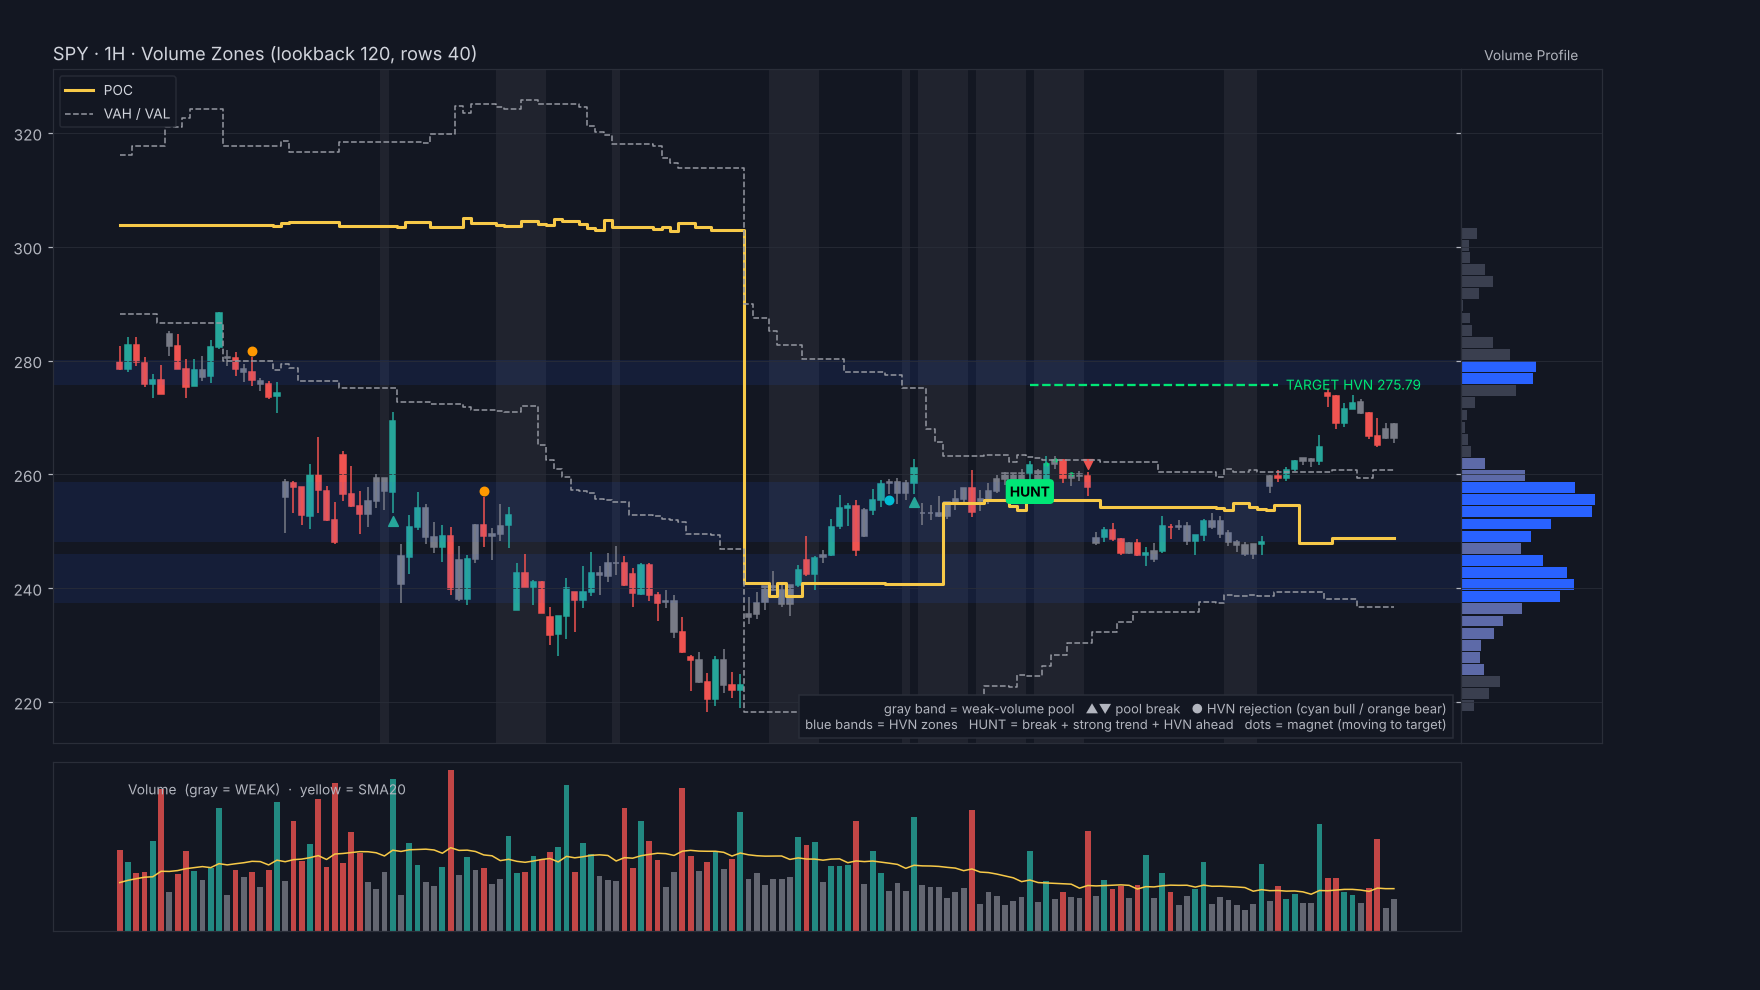
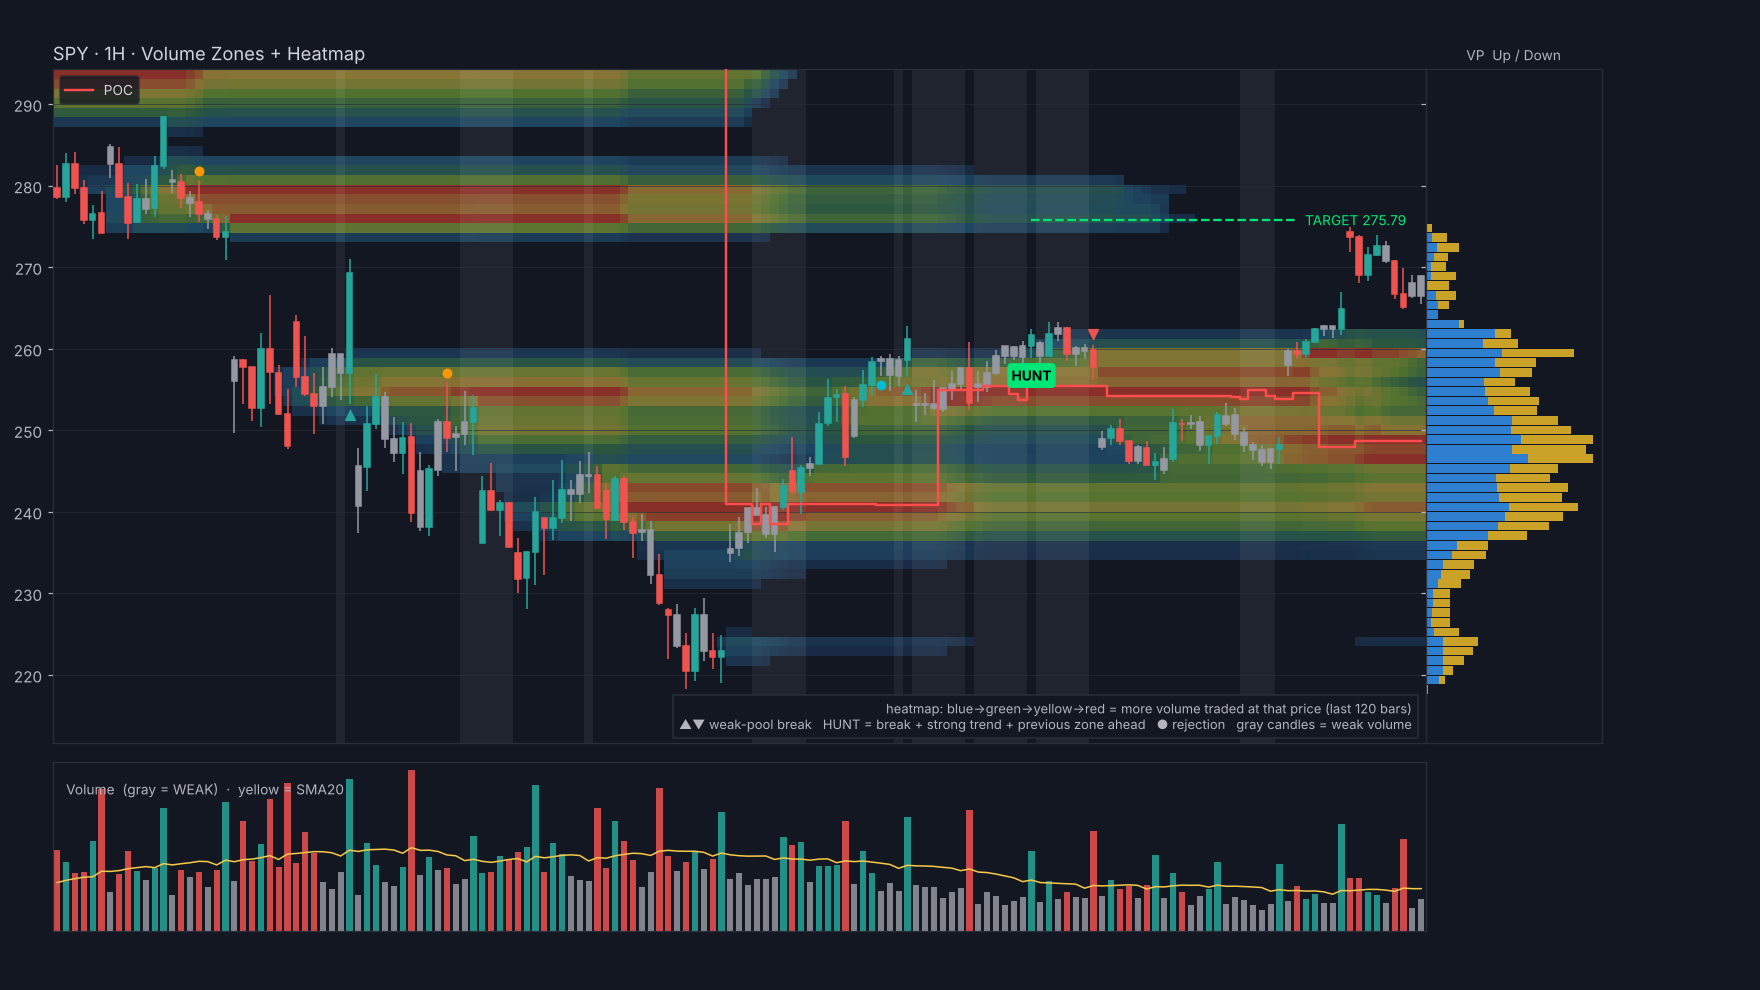
Add volume heatmap bands and Up/Down profile to indicator, Pine script and preview
Claude-Session: https://claude.ai/code/session_01LqVdPjKMY9JTEX1zUaxwh2

diff --git a/reports/make_preview.py b/reports/make_preview.py
@@ -1,0 +1,74 @@
+"""Render a TradingView-style preview of the Volume Zones indicator with the heatmap."""
+import sys, pathlib; sys.path.insert(0, str(pathlib.Path(__file__).resolve().parent.parent))
+import numpy as np, matplotlib; matplotlib.use("Agg")
+import matplotlib.pyplot as plt
+from matplotlib.colors import LinearSegmentedColormap
+from matplotlib.patches import Rectangle
+import vzones
+
+ROOT = pathlib.Path(__file__).resolve().parent.parent
+df = vzones.load_lean_csv(ROOT / "data/spy_hourly_lean.csv.gz").iloc[-30000:]
+P = vzones.VZParams(lookback=120, weak_ratio=0.8, break_ratio=1.5, adx_strong=25)
+r = vzones.compute(df, P)
+t0 = np.flatnonzero(r.hunt.to_numpy() != 0)[-1]
+s, e = t0 - 110, t0 + 45
+ctx = r.iloc[s - P.lookback:e]                      # history needed for the heatmap
+w = r.iloc[s:e].reset_index(drop=True)
+lo, hi = w.low.min() * 0.97, w.high.max() * 1.02
+edges = np.linspace(lo, hi, 71)
+grid, _ = vzones.heatmap(ctx, P.lookback, edges=edges)
+grid = grid[P.lookback:]
+grid = np.where(grid < 0.30, np.nan, grid)          # only show meaningful liquidity
+
+BG, GR, UP, DN = "#131722", "#2a2e39", "#26a69a", "#ef5350"
+cmap = LinearSegmentedColormap.from_list("heat", ["#1e3a5f", "#2a6f97", "#3d8b5a", "#8bbf3c", "#e8c547", "#e8432d"])
+cmap.set_bad(alpha=0)
+fig = plt.figure(figsize=(16, 9), facecolor=BG)
+ax = fig.add_axes([0.03, 0.25, 0.78, 0.68], facecolor=BG)
+axv = fig.add_axes([0.03, 0.06, 0.78, 0.17], facecolor=BG, sharex=ax)
+axp = fig.add_axes([0.81, 0.25, 0.10, 0.68], facecolor=BG, sharey=ax)
+for a in (ax, axv, axp):
+    a.tick_params(colors="#b2b5be"); [sp.set_color(GR) for sp in a.spines.values()]
+ax.grid(color=GR, lw=.4)
+ax.imshow(grid.T, origin="lower", aspect="auto", cmap=cmap, vmin=.3, vmax=1, alpha=.55,
+          extent=(-.5, len(w) - .5, lo, hi), interpolation="nearest", zorder=0)
+for i in range(len(w)):
+    if w.pool_active[i]:
+        ax.axvspan(i - .5, i + .5, color="#ffffff", alpha=.06, lw=0)
+for i, row in w.iterrows():
+    col = "#9598a1" if row.weak_volume else (UP if row.close >= row.open else DN)
+    ax.vlines(i, row.low, row.high, color=col, lw=1, zorder=3)
+    ax.add_patch(Rectangle((i - .32, min(row.open, row.close)), .64, max(abs(row.close - row.open), .02), color=col, zorder=3))
+    axv.bar(i, row.volume, color=col, alpha=.85, width=.7)
+axv.plot(range(len(w)), w.volume / w.vol_ratio, color="#f7c948", lw=1); axv.set_yticks([])
+axv.text(1, w.volume.max() * .85, "Volume  (gray = WEAK)  ·  yellow = SMA20", color="#b2b5be", fontsize=9)
+ax.step(range(len(w)), w.poc, where="mid", color="#ff4d4d", lw=1.6, label="POC", zorder=4)
+# up/down split profile at the last bar (like VPVR Up/Down)
+k = len(w) - 1
+pu, pd_ = vzones.split_profile(r.iloc[s + k - P.lookback:s + k], edges)
+mx = (pu + pd_).max(); c = (edges[:-1] + edges[1:]) / 2; hgt = edges[1] - edges[0]
+axp.barh(c, pu / mx, height=hgt * .9, color="#2f7fd1")
+axp.barh(c, pd_ / mx, left=pu / mx, height=hgt * .9, color="#c9a227")
+axp.set_xticks([]); axp.tick_params(labelleft=False)
+axp.set_title("VP  Up / Down", color="#b2b5be", fontsize=9)
+yr = w.high.max() - w.low.min()
+for i, row in w.iterrows():
+    if row.hunt:
+        d = row.hunt; clr = "#00e676" if d > 0 else "#ff5252"
+        ax.annotate("HUNT", (i, row.low - yr * .04 if d > 0 else row.high + yr * .04), color="black", ha="center",
+                    fontsize=9, weight="bold", bbox=dict(boxstyle="round", fc=clr, ec="none"), zorder=5)
+        ax.hlines(row.target, i, min(i + 30, len(w) - 1), color=clr, ls="--", lw=1.5, zorder=4)
+        ax.text(min(i + 30, len(w) - 1), row.target, f"  TARGET {row.target:.2f}", color=clr, va="center", fontsize=9)
+    elif row.pool_break:
+        ax.scatter(i, row.low - yr * .02 if row.pool_break > 0 else row.high + yr * .02,
+                   marker="^" if row.pool_break > 0 else "v", color=UP if row.pool_break > 0 else DN, s=40, zorder=5)
+    if row.rejection:
+        ax.scatter(i, row.low - yr * .015 if row.rejection > 0 else row.high + yr * .015,
+                   color="#00bcd4" if row.rejection > 0 else "#ff9800", s=30, zorder=5)
+ax.set_ylim(lo, hi); ax.set_xlim(-.5, len(w) - .5); ax.set_xticks([])
+ax.legend(loc="upper left", facecolor=BG, edgecolor=GR, labelcolor="#d1d4dc", fontsize=9)
+ax.set_title("SPY · 1H · Volume Zones + Heatmap", color="#d1d4dc", loc="left", fontsize=12)
+ax.text(.99, .02, "heatmap: blue→green→yellow→red = more volume traded at that price (last 120 bars)\n"
+        "▲▼ weak-pool break   HUNT = break + strong trend + previous zone ahead   ● rejection   gray candles = weak volume",
+        transform=ax.transAxes, ha="right", color="#b2b5be", fontsize=8.5, bbox=dict(fc=BG, ec=GR), zorder=6)
+fig.savefig(ROOT / "reports/volume_zones_preview.png", dpi=110, facecolor=BG)

diff --git a/vzones/indicator.py b/vzones/indicator.py
@@ -341,3 +341,36 @@ def latest_state(df: pd.DataFrame) -> dict:
             for i, r in recent.iterrows() if r.pool_break or r.hunt or r.rejection
         ],
     }
+
+
+# --------------------------------------------------------------------------- #
+# Heatmap (time x price liquidity map, like the VPVR heatmap overlay)
+# --------------------------------------------------------------------------- #
+def heatmap(df: pd.DataFrame, lookback: int = 120, rows: int = 60,
+            edges: np.ndarray | None = None) -> tuple[np.ndarray, np.ndarray]:
+    """For every bar t, volume traded at each price row over bars t-lookback..t-1.
+
+    Returns (grid[n_bars, rows] normalised 0..1 per bar, edges). A fixed price grid
+    is used so rows line up across time and can be drawn as horizontal bands.
+    """
+    h, l, v = (df[k].to_numpy(float) for k in ("high", "low", "volume"))
+    if edges is None:
+        edges = np.linspace(l.min(), h.max(), rows + 1)
+    per_bar = np.stack([distribute_volume(h[i:i + 1], l[i:i + 1], v[i:i + 1], edges) for i in range(len(df))])
+    csum = np.vstack([np.zeros(len(edges) - 1), np.cumsum(per_bar, axis=0)])
+    grid = np.full((len(df), len(edges) - 1), np.nan)
+    for t in range(1, len(df)):
+        s = max(0, t - lookback)
+        row = csum[t] - csum[s]
+        m = row.max()
+        if m > 0:
+            grid[t] = row / m
+    return grid, edges
+
+
+def split_profile(df: pd.DataFrame, edges: np.ndarray) -> tuple[np.ndarray, np.ndarray]:
+    """Up-bar (buy) and down-bar (sell) volume per price row."""
+    up = df["close"] >= df["open"]
+    h, l, v = (df[k].to_numpy(float) for k in ("high", "low", "volume"))
+    m = up.to_numpy()
+    return (distribute_volume(h[m], l[m], v[m], edges), distribute_volume(h[~m], l[~m], v[~m], edges))

diff --git a/tests/test_vzones.py b/tests/test_vzones.py
@@ -58,3 +58,12 @@ def test_backtest_runs_on_bundled_data():
     s = stats(tr)
     assert s["trades"] > 0 and 0 <= s["win_rate"] <= 1
     assert set(vzones.indicator.latest_state(vzones.compute(df.iloc[-300:])))>={"poc","hunt","weak_volume"}
+
+
+def test_heatmap_shape_and_range():
+    df = _synthetic(300)
+    g, edges = vzones.heatmap(df, 50, rows=30)
+    assert g.shape == (300, 30) and len(edges) == 31
+    assert np.nanmax(g) == pytest.approx(1.0) and np.nanmin(g) >= 0
+    up, dn = vzones.split_profile(df.iloc[:100], edges)
+    assert up.sum() + dn.sum() == pytest.approx(df.volume.iloc[:100].sum())

diff --git a/vzones/__init__.py b/vzones/__init__.py
@@ -1,6 +1,6 @@
 """Volume Zones indicator: volume-profile HVN/LVN zones, weak-volume pools,
 pool breakouts that target previous high-volume zones, and HVN rejections."""
-from .indicator import VZParams, VolumeProfile, build_profile, compute, adx, atr
+from .indicator import VZParams, VolumeProfile, build_profile, compute, adx, atr, heatmap, split_profile
 from .data import load_lean_csv, load_yahoo, load_ohlcv
 
 __all__ = ["VZParams", "VolumeProfile", "build_profile", "compute", "adx", "atr",

diff --git a/VZONES.md b/VZONES.md
@@ -1,5 +1,7 @@
 # Volume Zones indicator
 
+Heatmap: `vzones.heatmap()` (time x price liquidity bands, blue→red) + `split_profile()` (Up/Down VP). Preview: `python reports/make_preview.py`.
+
 Python: `vzones/` · TradingView: `pine/volume_zones.pine` · Backtest: `python run_backtest.py` · API: `GET /api/vzones/SPY?interval=1d`
 
 Signals (all computed from past bars only):
